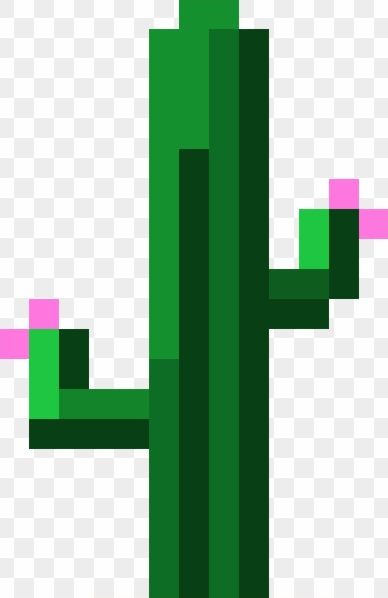
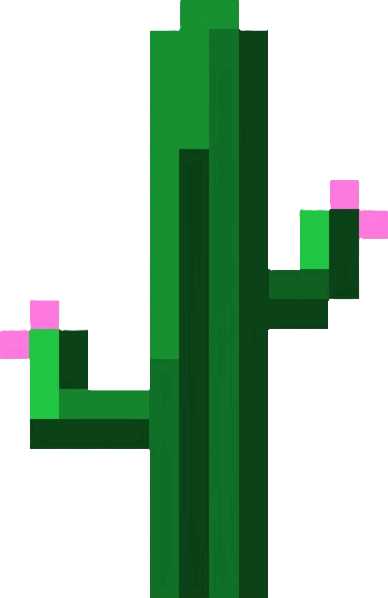
added cactus to screen

diff --git a/Lib/ScrollingDodgeGame.cpp b/Lib/ScrollingDodgeGame.cpp
@@ -20,14 +20,18 @@ Sprite  heart2;
 Sprite  heart3;
 Sprite  freezeClock;
 Sprite  bertNeutral;
+Sprite  bertDetermined;
 Sprite  ground;
+Sprite  cactus;
+string  cactusImage = "Cactus.png";
 string  groundImage = "Ground.png";
 string  bertNeutralImage = "Bert-neutral.png";
+string  bertDeterminedImage = "Bert-determined.png";
 string  clockImage = "Clock.png";
 string  heartImage = "Heart.png";
 string  sunImage = "Sun.png";
 string	cloudsImage = "Clouds.png";
-bool	scrolling = false;
+bool	scrolling = true;
 
 // Scrolling Clouds
 
@@ -45,7 +49,7 @@ void ScrollClouds() {
 
 // Scrolling Ground
 
-float	loopDurationGround = 8, accumulatedTimeGround = 0;
+float	loopDurationGround = 3, accumulatedTimeGround = 0;
 time_t	scrollTimeGround = clock();
 
 void ScrollGround() {
@@ -72,8 +76,10 @@ void Display() {
 	heart2.Display();
 	heart3.Display();
 	//freezeClock.Display();
-	bertNeutral.Display();
+	//bertNeutral.Display();
+	bertDetermined.Display();
 	ground.Display();
+	cactus.Display();
 	glFlush();
 }
 
@@ -110,7 +116,9 @@ int main(int ac, char** av) {
 	sun.compensateAspectRatio = true;
 	clouds.compensateAspectRatio = true;
 	bertNeutral.compensateAspectRatio = true;
+	bertDetermined.compensateAspectRatio = true;
 	ground.compensateAspectRatio = true;
+	cactus.compensateAspectRatio = true;
 	sun.Initialize(sunImage, .8f);
 	sun.SetScale(vec2(0.3f, 0.28f));
 	sun.SetPosition(vec2(0.92f, 0.82f));
@@ -120,9 +128,15 @@ int main(int ac, char** av) {
 	bertNeutral.Initialize(bertNeutralImage, 0.9f);
 	bertNeutral.SetScale(vec2(0.12f, 0.12f));
 	bertNeutral.SetPosition(vec2(-0.5f, -0.395f));
+	bertDetermined.Initialize(bertDeterminedImage, 0.9f);
+	bertDetermined.SetScale(vec2(0.12f, 0.12f));
+	bertDetermined.SetPosition(vec2(-0.5f, -0.395f));
 	ground.Initialize(groundImage, 0.9f);
 	ground.SetScale(vec2(2.0f, 0.25f));
 	ground.SetPosition(vec2(0.0f, -0.75f));
+	cactus.Initialize(cactusImage, 0.9f);
+	cactus.SetScale(vec2(0.13f, 0.18f));
+	cactus.SetPosition(vec2(0.3f, -0.32f));
 	// callbacks
 	RegisterResize(Resize);
 	// event loop
